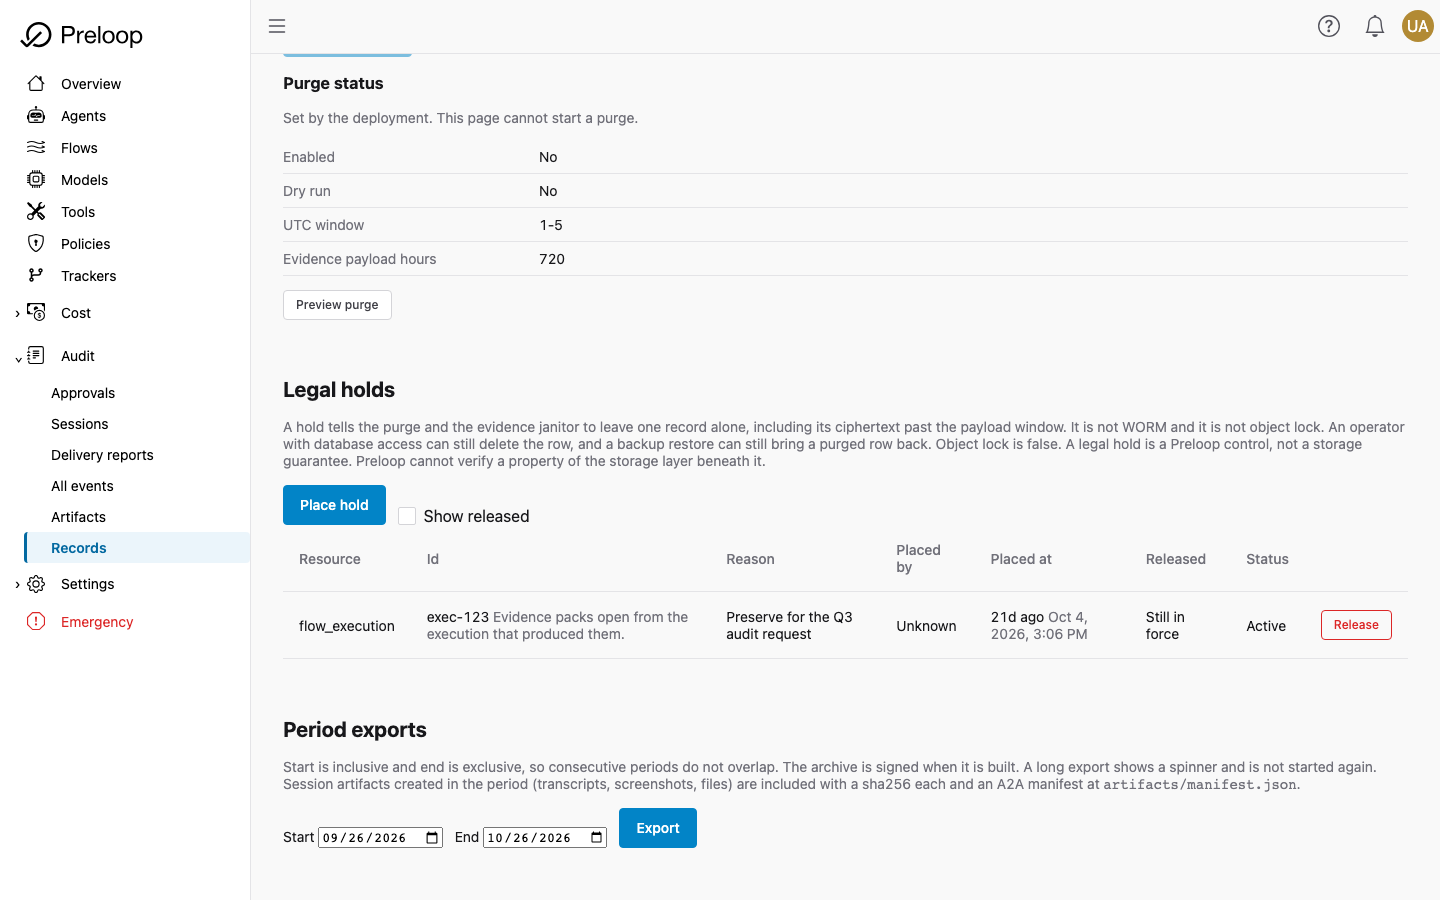
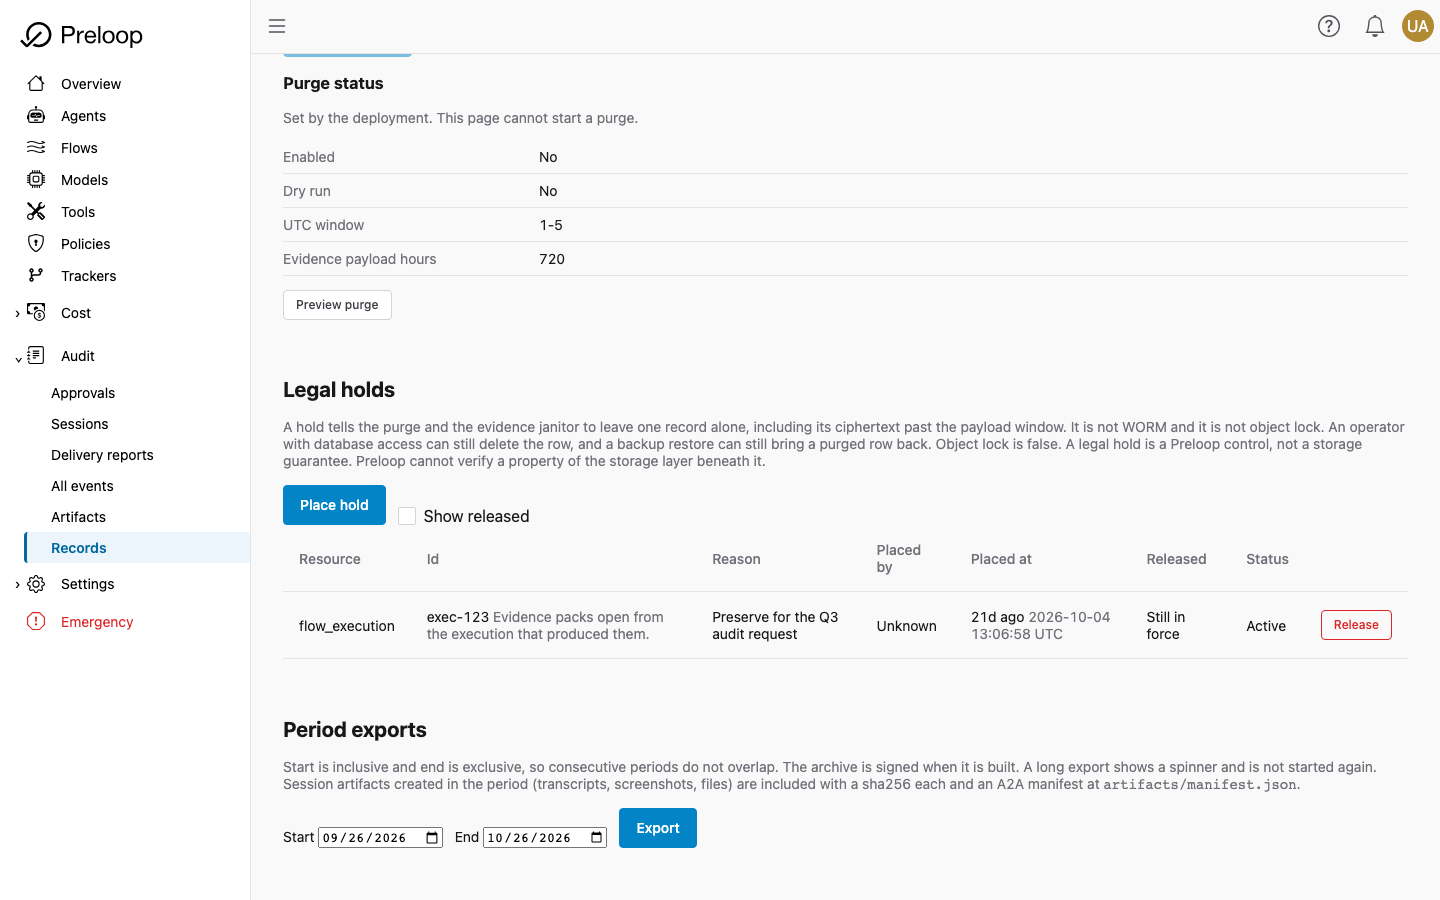
Clamp year ages to at least 1y and keep exact UTC instants on records
A timestamp 364 days away rendered as 0y. Records show the age with the
UTC instant to the second beside it, since they are evidence.

diff --git a/frontend/src/views/authed/settings/records-view.ts b/frontend/src/views/authed/settings/records-view.ts
@@ -3,7 +3,7 @@ import { formatCount, formatCountExact } from '../../../utils/count-format';
 import { ConsoleStatus } from '../../../controllers/console-status';
 import { tableScrollStyles } from '../../../styles/table-scroll';
 import { LitElement, css, html, nothing, unsafeCSS } from 'lit';
-import { formatAbsoluteTime } from '../../../utils/date';
+import { formatUTCDateTime, parseUtc } from '../../../utils/date';
 import { relativeTime } from '../../../utils/relative-time';
 import { customElement, state } from 'lit/decorators.js';
 import '@shoelace-style/shoelace/dist/components/alert/alert.js';
@@ -672,12 +672,13 @@ export class RecordsView extends LitElement {
 
   /**
    * Records are evidence, so a time here keeps its exact value on the page:
-   * relative first like every console time, the absolute instant beside it.
+   * relative first like every console time, the exact UTC instant (to the
+   * second, zone stated) beside it.
    */
   private stamp(value: string | null | undefined, fallback = '') {
-    if (!formatAbsoluteTime(value)) return fallback;
+    if (parseUtc(value) === null) return fallback;
     return html`${relativeTime(value)}
-      <span class="note">${formatAbsoluteTime(value)}</span>`;
+      <span class="note">${formatUTCDateTime(value as string)}</span>`;
   }
 
   private fact(label: string, value: unknown) {

diff --git a/frontend/src/views/authed/settings/records-view.test.ts b/frontend/src/views/authed/settings/records-view.test.ts
@@ -385,6 +385,22 @@ describe('RecordsView', () => {
     );
   });
 
+  it('keeps the exact UTC instant beside the age of a hold', async () => {
+    install({ holds: [HOLD] });
+    const listed = await fixture<RecordsView>(
+      html`<records-view></records-view>`
+    );
+    await waitUntil(
+      () => listed.shadowRoot?.querySelector('[data-testid="holds-table"]'),
+      'holds table did not render'
+    );
+    const text =
+      listed.shadowRoot!.querySelector('[data-testid="holds-table"]')
+        ?.textContent ?? '';
+    expect(text).to.contain('2026-09-20 00:00:00 UTC');
+    expect(text).to.match(/\d+(d|w) ago/);
+  });
+
   it('downloads a period export once', async () => {
     install({});
     const click = sinon.stub(HTMLAnchorElement.prototype, 'click');

diff --git a/frontend/src/utils/date.ts b/frontend/src/utils/date.ts
@@ -131,7 +131,7 @@ export function formatRelativeTime(
 
   const diffWeeks = Math.floor(diffDays / 7);
   if (diffWeeks < 52) return `${diffWeeks}w${suffix}`;
-  return `${Math.floor(diffDays / 365)}y${suffix}`;
+  return `${Math.max(1, Math.floor(diffDays / 365))}y${suffix}`;
 }
 
 /**
@@ -156,7 +156,7 @@ export function formatFutureRelativeTime(
   if (diffDays < 30) return `in ${diffDays}d`;
   const diffWeeks = Math.floor(diffDays / 7);
   if (diffWeeks < 52) return `in ${diffWeeks}w`;
-  return `in ${Math.floor(diffDays / 365)}y`;
+  return `in ${Math.max(1, Math.floor(diffDays / 365))}y`;
 }
 
 /**

diff --git a/frontend/src/utils/date.test.ts b/frontend/src/utils/date.test.ts
@@ -88,6 +88,17 @@ describe('date utilities', () => {
   });
 });
 
+describe('year boundary', () => {
+  const now = new Date('2026-10-07T20:00:00Z');
+
+  it('never renders zero years at 364 days', () => {
+    expect(formatRelativeTime('2025-10-08T20:00:00Z', now)).to.equal('1y ago');
+    expect(formatFutureRelativeTime('2027-10-06T20:00:00Z', now)).to.equal(
+      'in 1y'
+    );
+  });
+});
+
 describe('formatRelativeOrFuture', () => {
   const now = new Date('2026-07-12T20:00:00Z');
 
